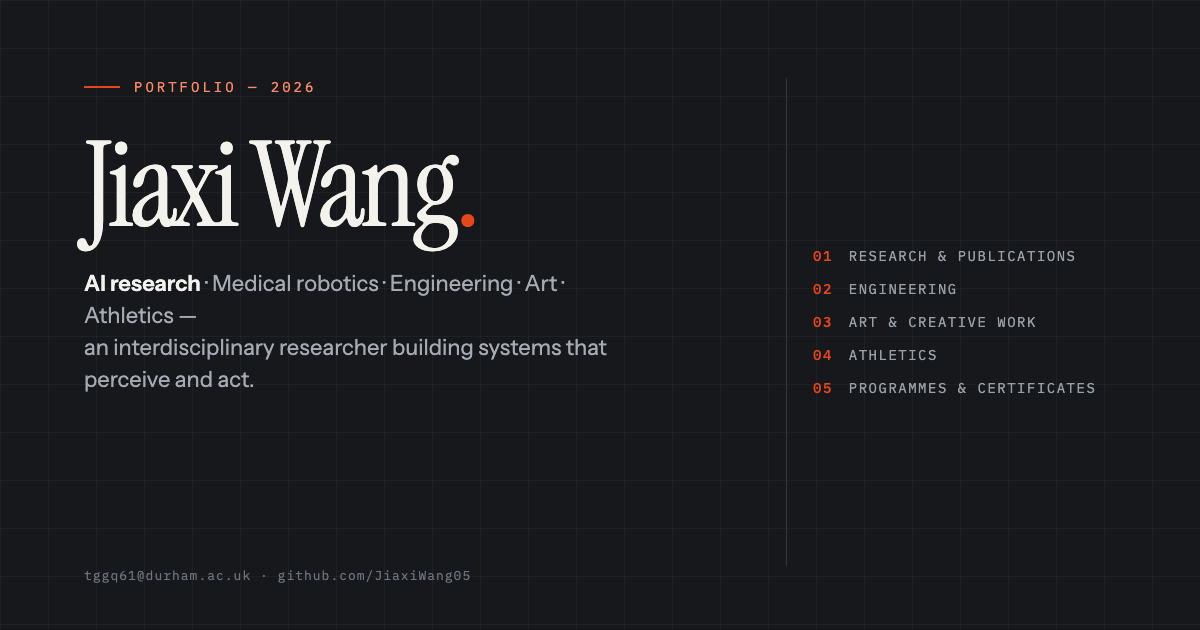
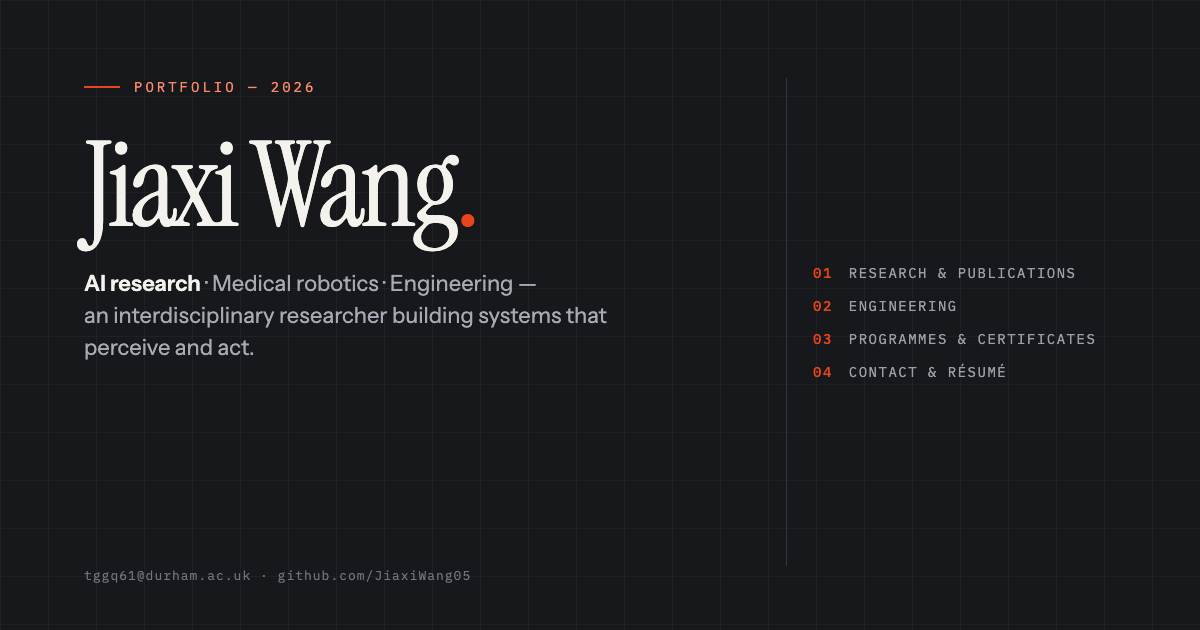
Refocus homepage on research and engineering; move art and sport to extracurricular section

Changed region(s): [[0.6783, 0.3921, 0.925, 0.6333], [0.0617, 0.5429, 0.5242, 0.6333], [0.0617, 0.4222, 0.5242, 0.5127]]

diff --git a/index.html b/index.html
@@ -3,19 +3,19 @@
 <head>
   <meta charset="UTF-8">
   <meta name="viewport" content="width=device-width, initial-scale=1.0">
-  <title>Jiaxi Wang — AI Research · Engineering · Art · Athletics</title>
-  <meta name="description" content="Jiaxi Wang — interdisciplinary researcher working across AI, medical robotics, engineering, visual art, and university-level ultimate frisbee. BEng Electronics Engineering, Durham University.">
+  <title>Jiaxi Wang — AI Research · Medical Robotics · Engineering</title>
+  <meta name="description" content="Jiaxi Wang — interdisciplinary researcher in AI, medical robotics, and engineering. BEng Electronics Engineering, Durham University, with research experience at CUHK, McGill, and Edinburgh.">
   <meta name="theme-color" content="#f4f2ec">
   <link rel="canonical" href="https://jiaxiwang05.github.io/">
   <meta property="og:type" content="website">
   <meta property="og:site_name" content="Jiaxi Wang">
-  <meta property="og:title" content="Jiaxi Wang — AI Research · Engineering · Art · Athletics">
-  <meta property="og:description" content="Interdisciplinary researcher in AI, medical robotics, engineering, art, and university sport.">
+  <meta property="og:title" content="Jiaxi Wang — AI Research · Medical Robotics · Engineering">
+  <meta property="og:description" content="Interdisciplinary researcher in AI, medical robotics, and engineering.">
   <meta property="og:url" content="https://jiaxiwang05.github.io/">
   <meta property="og:image" content="https://jiaxiwang05.github.io/assets/og-card.png">
   <meta name="twitter:card" content="summary_large_image">
-  <meta name="twitter:title" content="Jiaxi Wang — AI Research · Engineering · Art · Athletics">
-  <meta name="twitter:description" content="Interdisciplinary researcher in AI, medical robotics, engineering, art, and university sport.">
+  <meta name="twitter:title" content="Jiaxi Wang — AI Research · Medical Robotics · Engineering">
+  <meta name="twitter:description" content="Interdisciplinary researcher in AI, medical robotics, and engineering.">
   <meta name="twitter:image" content="https://jiaxiwang05.github.io/assets/og-card.png">
   <link rel="icon" type="image/svg+xml" href="assets/favicon.svg">
   <link rel="apple-touch-icon" href="assets/favicon-180.png">
@@ -33,7 +33,7 @@
     "email": "mailto:tggq61@durham.ac.uk",
     "sameAs": ["https://github.com/JiaxiWang05"],
     "jobTitle": "Undergraduate Researcher",
-    "description": "Interdisciplinary researcher in AI, medical robotics, engineering, visual art, and university-level ultimate frisbee.",
+    "description": "Interdisciplinary researcher in AI, medical robotics, and engineering.",
     "knowsAbout": ["Autonomous Surgical Robotics", "Vision-Language-Action Models", "Robot Learning", "Computer Vision", "Medical Robotics"],
     "affiliation": { "@type": "CollegeOrUniversity", "name": "Durham University" }
   }
@@ -71,8 +71,8 @@
           <p class="eyebrow hero-home__eyebrow">Portfolio — 2026</p>
           <h1 id="hero-title" class="hero-home__name">Jiaxi Wang<span class="dot">.</span></h1>
           <p class="hero-home__note">BENG ELECTRONICS ENGINEERING — DURHAM UNIVERSITY · RESEARCH AT CUHK · MCGILL · EDINBURGH</p>
-          <p class="hero-home__identity">An interdisciplinary researcher working across <em>AI &amp; medical robotics</em>, <em>engineering</em>, <em>visual art</em>, and <em>university-level ultimate frisbee</em>.</p>
-          <p class="hero-home__statement">I build learning-based systems that perceive and act in the physical world — vision–language–action models for autonomous surgical robotics, autonomous material transport, and human-centred interfaces — and I approach visual art and competitive sport with the same discipline.</p>
+          <p class="hero-home__identity">An interdisciplinary researcher working across <em>AI &amp; medical robotics</em> and <em>engineering</em>.</p>
+          <p class="hero-home__statement">I build learning-based systems that perceive and act in the physical world — vision–language–action models for autonomous surgical robotics, autonomous material transport, and human-centred interfaces.</p>
           <div class="hero-home__actions">
             <a class="btn btn--solid" href="research.html">Explore research</a>
             <a class="btn" href="cv.pdf">Download CV</a>
@@ -88,10 +88,11 @@
         <ul class="ledger" aria-label="Portfolio index">
           <li class="ledger__row"><a href="research.html"><span class="ledger__num">01</span><span class="ledger__label">Research &amp; publications</span><span class="ledger__arrow">→</span></a></li>
           <li class="ledger__row"><a href="engineering.html"><span class="ledger__num">02</span><span class="ledger__label">Engineering</span><span class="ledger__arrow">→</span></a></li>
-          <li class="ledger__row"><a href="art.html"><span class="ledger__num">03</span><span class="ledger__label">Art &amp; creative work</span><span class="ledger__arrow">→</span></a></li>
-          <li class="ledger__row"><a href="sport.html"><span class="ledger__num">04</span><span class="ledger__label">Athletics</span><span class="ledger__arrow">→</span></a></li>
-          <li class="ledger__row"><a href="certificates.html"><span class="ledger__num">05</span><span class="ledger__label">Programmes &amp; certificates</span><span class="ledger__arrow">→</span></a></li>
-          <li class="ledger__row"><a href="contact.html"><span class="ledger__num">06</span><span class="ledger__label">Contact &amp; résumé</span><span class="ledger__arrow">→</span></a></li>
+          <li class="ledger__row"><a href="certificates.html"><span class="ledger__num">03</span><span class="ledger__label">Programmes &amp; certificates</span><span class="ledger__arrow">→</span></a></li>
+          <li class="ledger__row"><a href="contact.html"><span class="ledger__num">04</span><span class="ledger__label">Contact &amp; résumé</span><span class="ledger__arrow">→</span></a></li>
+          <li class="ledger__group" aria-hidden="true">Extracurricular</li>
+          <li class="ledger__row"><a href="art.html"><span class="ledger__num">05</span><span class="ledger__label">Art &amp; creative work</span><span class="ledger__arrow">→</span></a></li>
+          <li class="ledger__row"><a href="sport.html"><span class="ledger__num">06</span><span class="ledger__label">Athletics</span><span class="ledger__arrow">→</span></a></li>
         </ul>
       </div>
 
@@ -102,16 +103,12 @@
           <span class="marquee__item">Robot learning</span>
           <span class="marquee__item">Medical robotics</span>
           <span class="marquee__item">Engineering &amp; autonomous systems</span>
-          <span class="marquee__item">Visual art</span>
-          <span class="marquee__item">Ultimate frisbee</span>
           <span class="marquee__item">International research programmes</span>
           <span class="marquee__item">Autonomous surgical robotics</span>
           <span class="marquee__item">Vision–language–action models</span>
           <span class="marquee__item">Robot learning</span>
           <span class="marquee__item">Medical robotics</span>
           <span class="marquee__item">Engineering &amp; autonomous systems</span>
-          <span class="marquee__item">Visual art</span>
-          <span class="marquee__item">Ultimate frisbee</span>
           <span class="marquee__item">International research programmes</span>
         </div>
       </div>
@@ -170,32 +167,6 @@
 
           <article class="catalog__row" data-reveal>
             <span class="catalog__num">04</span>
-            <span class="catalog__cat">Art</span>
-            <div>
-              <h3 class="catalog__title">Two-time finalist — Durham University Annual Art Competition</h3>
-              <p class="catalog__desc">Shortlisted in the University's annual art competition in 2023 and 2024, with official features from Durham University Stories and University College.</p>
-            </div>
-            <div class="catalog__actions">
-              <a class="link-arrow" href="art.html">Selected works</a>
-              <a class="link-arrow" href="https://stories.durham.ac.uk/SAP24/25/" target="_blank" rel="noopener noreferrer">Durham feature<span class="ext" aria-hidden="true">↗</span></a>
-            </div>
-          </article>
-
-          <article class="catalog__row" data-reveal>
-            <span class="catalog__num">05</span>
-            <span class="catalog__cat">Sport</span>
-            <div>
-              <h3 class="catalog__title">USA Ultimate — registered college player</h3>
-              <p class="catalog__desc">Registered USA Ultimate college athlete, verified through the official USA Ultimate team page.</p>
-            </div>
-            <div class="catalog__actions">
-              <a class="link-arrow" href="sport.html">Athletics profile</a>
-              <a class="link-arrow" href="https://play.usaultimate.org/teams/events/Eventteam/?TeamId=EtYK%2BMTULOQ0FjijSrz%2B90YapbNQJKaujdNO5vxPdPw%3D" target="_blank" rel="noopener noreferrer">Official page<span class="ext" aria-hidden="true">↗</span></a>
-            </div>
-          </article>
-
-          <article class="catalog__row" data-reveal>
-            <span class="catalog__num">06</span>
             <span class="catalog__cat">Programmes</span>
             <div>
               <h3 class="catalog__title">International programmes &amp; certifications</h3>
@@ -265,7 +236,7 @@
         <div class="section__head" data-reveal>
           <p class="eyebrow">03 — Achievements</p>
           <h2 id="achievements-title" class="section__title">Selected milestones</h2>
-          <p class="section__lead">Verified achievements across research, service, creativity, and sport.</p>
+          <p class="section__lead">Verified achievements across research, service, and international programmes.</p>
         </div>
 
         <div class="catalog">
@@ -306,29 +277,6 @@
             </div>
           </article>
 
-          <article class="catalog__row" data-reveal>
-            <span class="catalog__num">23·24</span>
-            <span class="catalog__cat">Art</span>
-            <div>
-              <h3 class="catalog__title">Two-time finalist — Durham University Annual Art Competition</h3>
-              <p class="catalog__desc">Shortlisted in consecutive years (2023, 2024), with features from Durham University Stories and University College.</p>
-            </div>
-            <div class="catalog__actions">
-              <a class="link-arrow" href="art.html">Evidence</a>
-            </div>
-          </article>
-
-          <article class="catalog__row" data-reveal>
-            <span class="catalog__num">2026</span>
-            <span class="catalog__cat">Sport</span>
-            <div>
-              <h3 class="catalog__title">USA Ultimate — registered college player</h3>
-              <p class="catalog__desc">Registered USA Ultimate college athlete, verified through the official USA Ultimate team page.</p>
-            </div>
-            <div class="catalog__actions">
-              <a class="link-arrow" href="sport.html">Profile</a>
-            </div>
-          </article>
         </div>
       </div>
     </section>
@@ -395,10 +343,49 @@
       </div>
     </section>
 
+    <!-- ============ EXTRACURRICULAR ============ -->
+    <section id="extracurricular" class="section" aria-labelledby="extracurricular-title">
+      <div class="wrap">
+        <div class="section__head" data-reveal>
+          <p class="eyebrow">05 — Extracurricular</p>
+          <h2 id="extracurricular-title" class="section__title">Beyond the lab</h2>
+          <p class="section__lead">Selected creative and athletic milestones.</p>
+        </div>
+
+        <div class="catalog">
+          <article class="catalog__row" data-reveal>
+            <span class="catalog__num">01</span>
+            <span class="catalog__cat">Art</span>
+            <div>
+              <h3 class="catalog__title">Two-time finalist — Durham University Annual Art Competition</h3>
+              <p class="catalog__desc">Shortlisted in consecutive years (2023, 2024), with official features from Durham University Stories and University College.</p>
+            </div>
+            <div class="catalog__actions">
+              <a class="link-arrow" href="art.html">Selected works</a>
+              <a class="link-arrow" href="https://stories.durham.ac.uk/SAP24/25/" target="_blank" rel="noopener noreferrer">Durham feature<span class="ext" aria-hidden="true">↗</span></a>
+            </div>
+          </article>
+
+          <article class="catalog__row" data-reveal>
+            <span class="catalog__num">02</span>
+            <span class="catalog__cat">Sport</span>
+            <div>
+              <h3 class="catalog__title">USA Ultimate — registered college player</h3>
+              <p class="catalog__desc">Registered USA Ultimate college athlete, verified through the official USA Ultimate team page.</p>
+            </div>
+            <div class="catalog__actions">
+              <a class="link-arrow" href="sport.html">Athletics profile</a>
+              <a class="link-arrow" href="https://play.usaultimate.org/teams/events/Eventteam/?TeamId=EtYK%2BMTULOQ0FjijSrz%2B90YapbNQJKaujdNO5vxPdPw%3D" target="_blank" rel="noopener noreferrer">Official page<span class="ext" aria-hidden="true">↗</span></a>
+            </div>
+          </article>
+        </div>
+      </div>
+    </section>
+
     <!-- ============ CONTACT BAND ============ -->
     <section class="dark-hero" aria-labelledby="cta-title">
       <div class="wrap">
-        <p class="eyebrow eyebrow--dark dark-hero__eyebrow" data-reveal>05 — Contact</p>
+        <p class="eyebrow eyebrow--dark dark-hero__eyebrow" data-reveal>06 — Contact</p>
         <h2 id="cta-title" class="dark-hero__title" data-reveal>Let's build what's next.</h2>
         <p class="dark-hero__desc" data-reveal>For research collaboration, robotics opportunities, or academic correspondence — email is the fastest route.</p>
         <div class="dark-hero__actions" data-reveal>
@@ -425,7 +412,7 @@
         </ul>
       </div>
       <div class="site-footer__bottom">
-        <p>© <span id="year">2026</span> Jiaxi Wang — AI research · engineering · art · athletics</p>
+        <p>© <span id="year">2026</span> Jiaxi Wang — AI research · medical robotics · engineering</p>
         <p><a href="mailto:tggq61@durham.ac.uk">tggq61@durham.ac.uk</a> · <a href="https://github.com/JiaxiWang05" target="_blank" rel="noopener noreferrer">GitHub</a> · <a href="cv.pdf">CV</a></p>
       </div>
     </div>

diff --git a/art.html b/art.html
@@ -136,7 +136,7 @@
         </ul>
       </div>
       <div class="site-footer__bottom">
-        <p>© <span id="year">2026</span> Jiaxi Wang — AI research · engineering · art · athletics</p>
+        <p>© <span id="year">2026</span> Jiaxi Wang — AI research · medical robotics · engineering</p>
         <p><a href="mailto:tggq61@durham.ac.uk">tggq61@durham.ac.uk</a> · <a href="https://github.com/JiaxiWang05" target="_blank" rel="noopener noreferrer">GitHub</a> · <a href="cv.pdf">CV</a></p>
       </div>
     </div>

diff --git a/certificates.html b/certificates.html
@@ -114,7 +114,7 @@
         </ul>
       </div>
       <div class="site-footer__bottom">
-        <p>© <span id="year">2026</span> Jiaxi Wang — AI research · engineering · art · athletics</p>
+        <p>© <span id="year">2026</span> Jiaxi Wang — AI research · medical robotics · engineering</p>
         <p><a href="mailto:tggq61@durham.ac.uk">tggq61@durham.ac.uk</a> · <a href="https://github.com/JiaxiWang05" target="_blank" rel="noopener noreferrer">GitHub</a> · <a href="cv.pdf">CV</a></p>
       </div>
     </div>

diff --git a/contact.html b/contact.html
@@ -112,7 +112,7 @@
         </ul>
       </div>
       <div class="site-footer__bottom">
-        <p>© <span id="year">2026</span> Jiaxi Wang — AI research · engineering · art · athletics</p>
+        <p>© <span id="year">2026</span> Jiaxi Wang — AI research · medical robotics · engineering</p>
         <p><a href="mailto:tggq61@durham.ac.uk">tggq61@durham.ac.uk</a> · <a href="https://github.com/JiaxiWang05" target="_blank" rel="noopener noreferrer">GitHub</a> · <a href="cv.pdf">CV</a></p>
       </div>
     </div>

diff --git a/engineering.html b/engineering.html
@@ -181,7 +181,7 @@
         </ul>
       </div>
       <div class="site-footer__bottom">
-        <p>© <span id="year">2026</span> Jiaxi Wang — AI research · engineering · art · athletics</p>
+        <p>© <span id="year">2026</span> Jiaxi Wang — AI research · medical robotics · engineering</p>
         <p><a href="mailto:tggq61@durham.ac.uk">tggq61@durham.ac.uk</a> · <a href="https://github.com/JiaxiWang05" target="_blank" rel="noopener noreferrer">GitHub</a> · <a href="cv.pdf">CV</a></p>
       </div>
     </div>

diff --git a/research.html b/research.html
@@ -224,7 +224,7 @@
         </ul>
       </div>
       <div class="site-footer__bottom">
-        <p>© <span id="year">2026</span> Jiaxi Wang — AI research · engineering · art · athletics</p>
+        <p>© <span id="year">2026</span> Jiaxi Wang — AI research · medical robotics · engineering</p>
         <p><a href="mailto:tggq61@durham.ac.uk">tggq61@durham.ac.uk</a> · <a href="https://github.com/JiaxiWang05" target="_blank" rel="noopener noreferrer">GitHub</a> · <a href="cv.pdf">CV</a></p>
       </div>
     </div>

diff --git a/sport.html b/sport.html
@@ -108,7 +108,7 @@
         </ul>
       </div>
       <div class="site-footer__bottom">
-        <p>© <span id="year">2026</span> Jiaxi Wang — AI research · engineering · art · athletics</p>
+        <p>© <span id="year">2026</span> Jiaxi Wang — AI research · medical robotics · engineering</p>
         <p><a href="mailto:tggq61@durham.ac.uk">tggq61@durham.ac.uk</a> · <a href="https://github.com/JiaxiWang05" target="_blank" rel="noopener noreferrer">GitHub</a> · <a href="cv.pdf">CV</a></p>
       </div>
     </div>

diff --git a/style.css b/style.css
@@ -397,6 +397,15 @@ a { color: inherit; text-decoration: none; }
   padding-left: 10px;
 }
 
+.ledger__group {
+  padding: 18px 2px 6px;
+  font-family: var(--font-mono);
+  font-size: .62rem;
+  letter-spacing: 2px;
+  text-transform: uppercase;
+  color: var(--faint);
+}
+
 .ledger__num {
   font-family: var(--font-mono);
   font-size: .72rem;

diff --git a/README.md b/README.md
@@ -12,7 +12,7 @@ deploys automatically.
 
 | Page | File | Content |
 | --- | --- | --- |
-| Home | `index.html` | Hero, featured-work index, achievements, background, contact band |
+| Home | `index.html` | Hero, featured-work index, achievements, background, extracurricular (art + sport), contact band |
 | Research | `research.html` | EndoWAM publication (in submission) + BiliVLA, Trileg-ESD, Motion-to-Sound |
 | Engineering | `engineering.html` | Automated Material Mover case study + report PDF |
 | Art | `art.html` | Durham Art Competition achievement, evidence links, artwork gallery |
